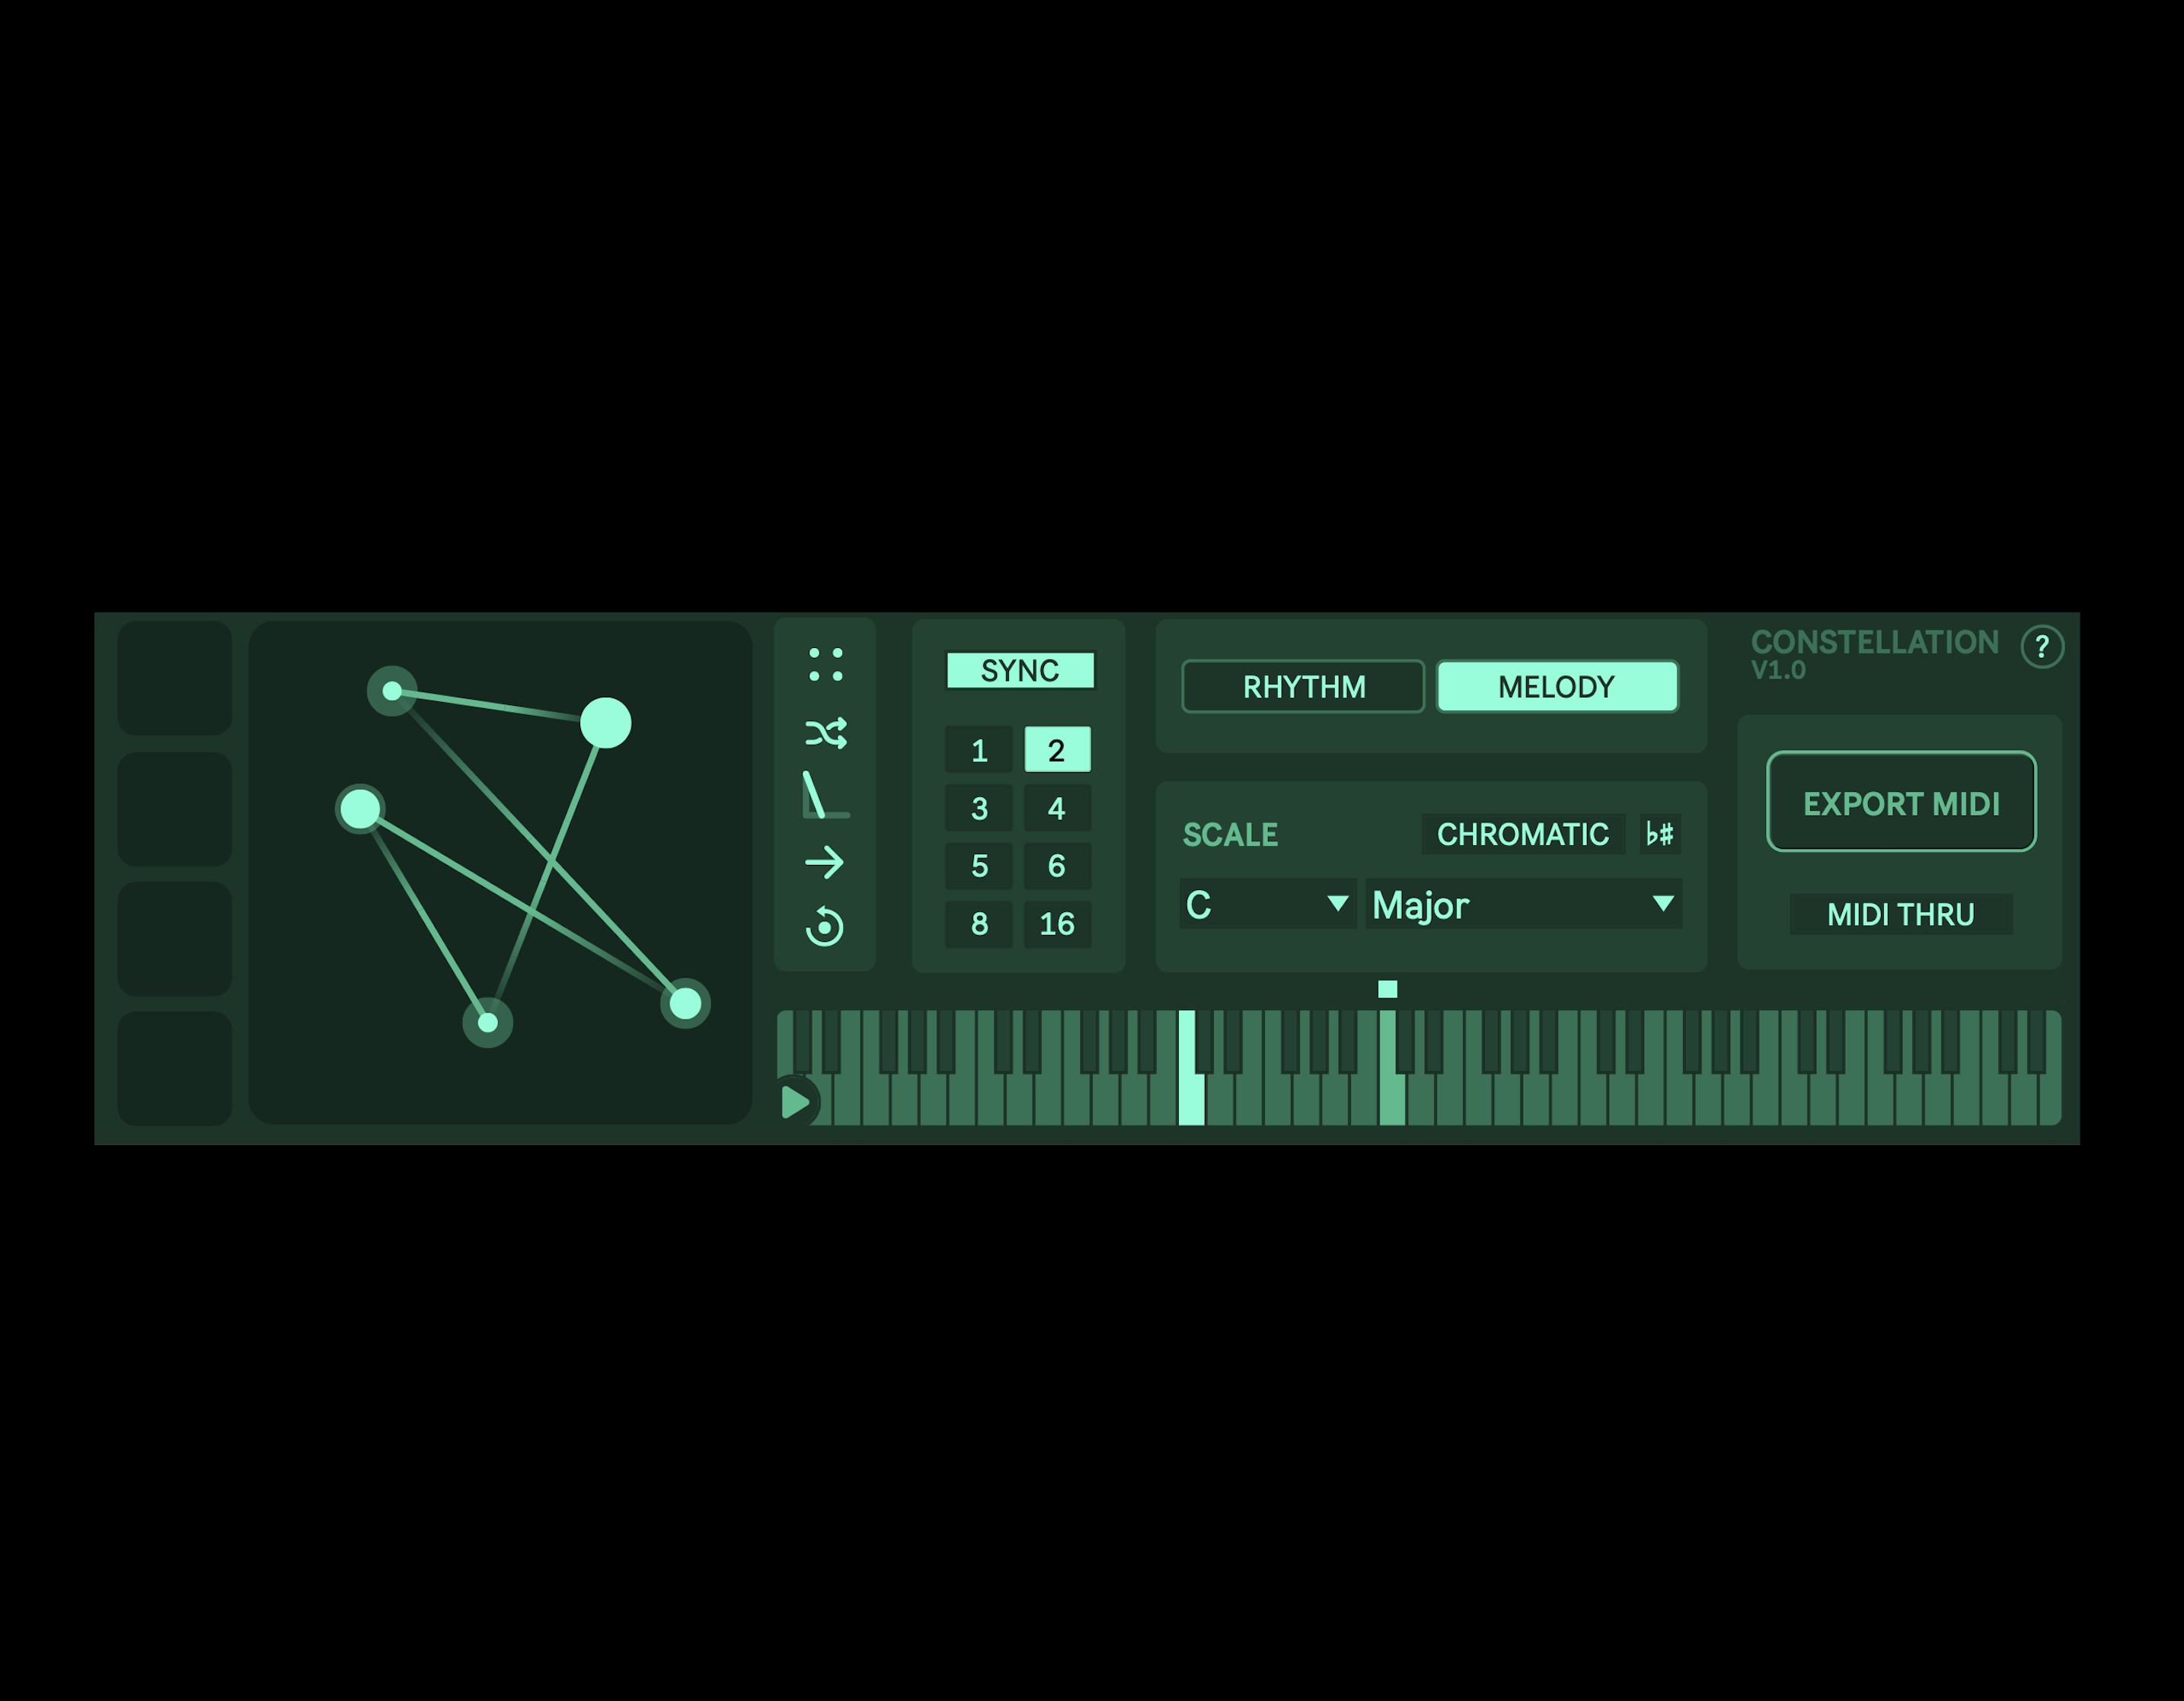
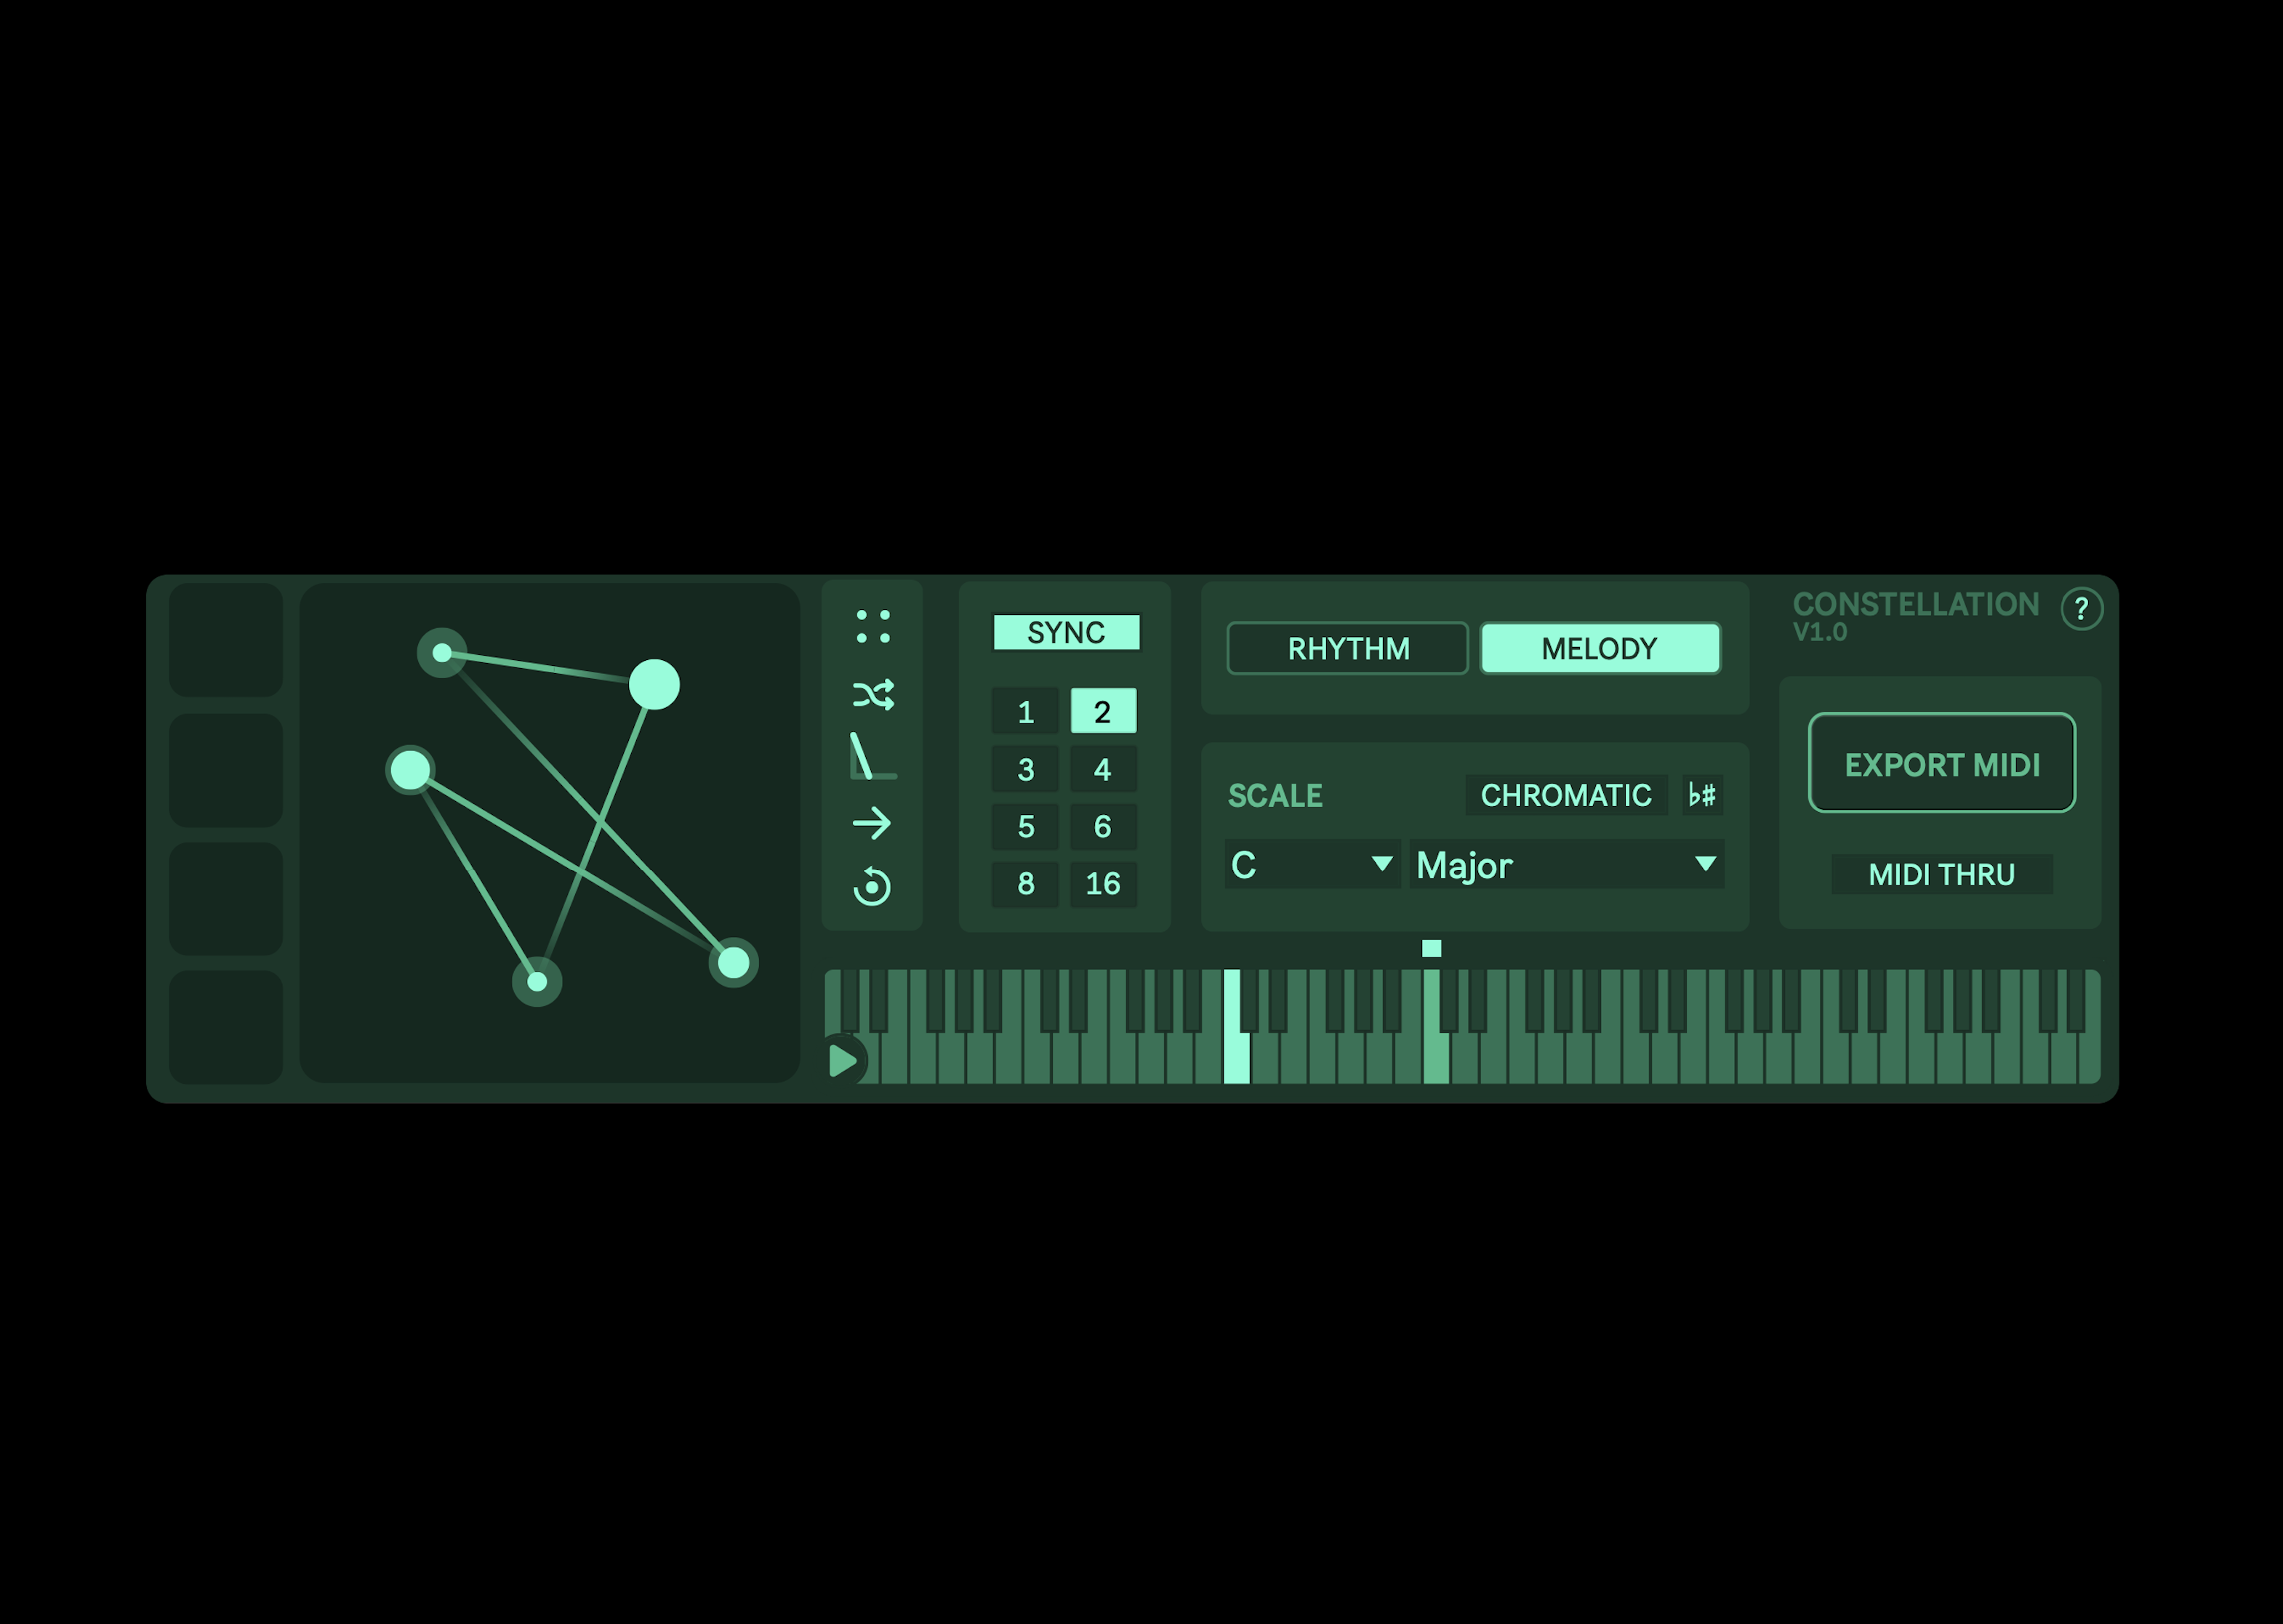
updates

diff --git a/src/pages/constellation.js b/src/pages/constellation.js
@@ -2,13 +2,35 @@ import React from 'react';
 import ProjectPage from '../components/ProjectPage';
 import { useStaticQuery, graphql } from 'gatsby';
 import ResponsiveIframe from '../components/ResponsiveIframe';
+import { GatsbyImage } from 'gatsby-plugin-image';
 
 const Page = () => {
-  const { bannerImage } = useStaticQuery(graphql`
+  const {
+    bannerImage,
+    image1,
+    image2,
+    image3,
+    image4,
+  } = useStaticQuery(graphql`
     {
       bannerImage: file(
         relativePath: { eq: "constellation/constellation-banner-2.png" }
       ) {
+        childImageSharp {
+          gatsbyImageData(quality: 100, layout: FULL_WIDTH)
+        }
+      }
+      image2: file(relativePath: { eq: "constellation/constellation-2.png" }) {
+        childImageSharp {
+          gatsbyImageData(quality: 100, layout: FULL_WIDTH)
+        }
+      }
+      image3: file(relativePath: { eq: "constellation/constellation-3.png" }) {
+        childImageSharp {
+          gatsbyImageData(quality: 100, layout: FULL_WIDTH)
+        }
+      }
+      image4: file(relativePath: { eq: "constellation/constellation-4.png" }) {
         childImageSharp {
           gatsbyImageData(quality: 100, layout: FULL_WIDTH)
         }
@@ -56,11 +78,32 @@ const Page = () => {
               height="315"
             />
             <p>
-              Use the shape editor to create and perform your sequences. Edges
+              Use the shape editor to create and perform sequences. Edges
               represent notes, and the angles at each corner determine the
-              musical interval between notes. Click on the keyboard to set the
-              starting note, or play with MIDI. The color is purely aesthetic
-              and is determined by the starting note.
+              musical interval between notes. Set the starting note by clicking
+              on the keyboard, or with MIDI input.
+            </p>
+            <figure style={{ maxWidth: '1200px', margin: '0 auto' }}>
+              <GatsbyImage
+                image={image3.childImageSharp.gatsbyImageData}
+                alt="Constellation"
+              />
+            </figure>
+            <p>
+              Stack multiple devices in parallel to produce complex rhythms and
+              harmonies. The color is purely aesthetic and is determined by the
+              starting note.
+            </p>
+            <figure style={{ maxWidth: '1200px', margin: '0 auto' }}>
+              <GatsbyImage
+                image={image4.childImageSharp.gatsbyImageData}
+                alt="Constellation"
+              />
+            </figure>
+            <p>
+              Stacking multiple devices in series allows the first device's
+              output to control the starting note of the next device. This
+              allows for more evolving patterns.
             </p>
           </div>
         )}

diff --git a/src/pages/index.js b/src/pages/index.js
@@ -200,7 +200,7 @@ const IndexPage = () => {
         }
       }
       constellationBanner: file(
-        relativePath: { eq: "constellation/constellation-banner-2.png" }
+        relativePath: { eq: "constellation/constellation-banner-3.png" }
       ) {
         childImageSharp {
           gatsbyImageData(quality: 100, layout: FULL_WIDTH)